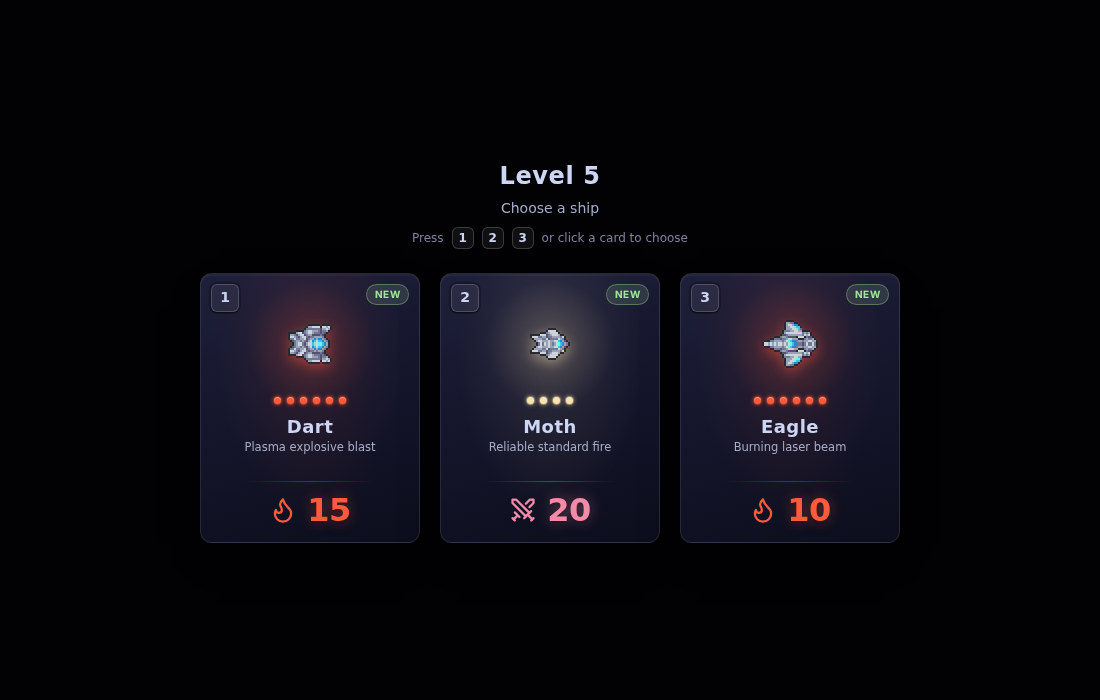
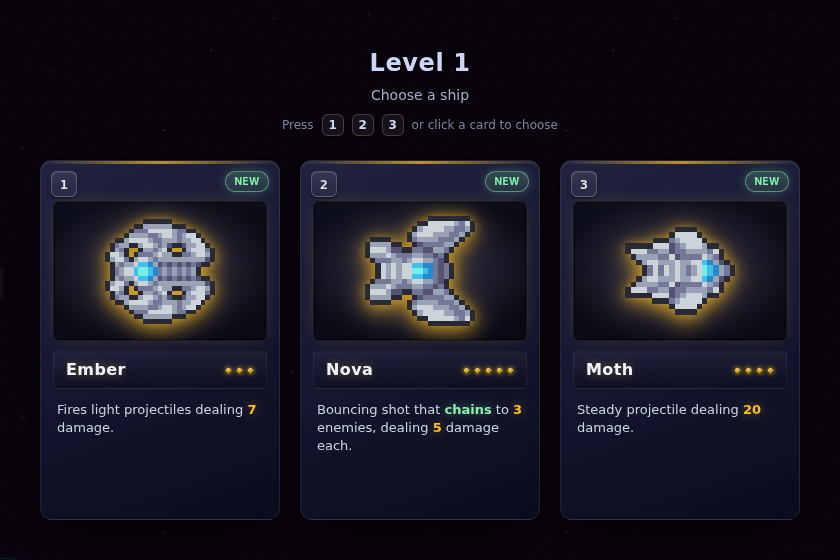
Fix missing ship texture asset; polish card design and damage-type colors
Agent-Logs-Url: https://github.com/tfritzy/typerace.io/sessions/9aaf207d-2dbc-4d2e-b04a-e12ee6247bc7

diff --git a/frontend/src/games/cosmic-defense/ShipChoiceOverlay.tsx b/frontend/src/games/cosmic-defense/ShipChoiceOverlay.tsx
@@ -16,13 +16,13 @@ interface ShipChoiceOverlayProps {
 }
 
 const KEYWORD_COLOR = {
-  plasma: "#c4528a",
-  freeze: "#89dceb",
-  chain: "#a6e3a1",
-  number: "#f9e2af",
+  plasma: "#d65c9f",
+  freeze: "#7dd3fc",
+  chain: "#86efac",
+  number: "#fbbf24",
 } as const;
 
-const ACCENT_COLOR = "#f9e2af";
+const ACCENT_COLOR = "#fbbf24";
 
 function damageTypeAccent(t: DamageType): string {
   if (t === DamageType.Plasma) return KEYWORD_COLOR.plasma;
@@ -162,18 +162,18 @@ interface CornerHotkeyProps {
 
 const CornerHotkey = ({ hotkey }: CornerHotkeyProps) => (
   <div
-    className="absolute flex items-center justify-center select-none pointer-events-none rounded-md"
+    className="absolute flex items-center justify-center select-none pointer-events-none rounded-md z-10"
     style={{
       top: 10,
       left: 10,
-      width: 28,
-      height: 28,
-      background: "rgba(255,255,255,0.06)",
-      border: "1px solid rgba(255,255,255,0.18)",
-      boxShadow: "0 1px 0 rgba(0,0,0,0.4), 0 0 0 2px rgba(0,0,0,0.25)",
-      color: "#cdd6f4",
-      fontFamily: "system-ui, sans-serif",
-      fontSize: 14,
+      width: 26,
+      height: 26,
+      background: "linear-gradient(180deg, rgba(255,255,255,0.10) 0%, rgba(255,255,255,0.03) 100%)",
+      border: "1px solid rgba(255,255,255,0.22)",
+      boxShadow: "0 1px 2px rgba(0,0,0,0.6), inset 0 1px 0 rgba(255,255,255,0.08)",
+      color: "#e2e8f0",
+      fontFamily: "ui-monospace, SFMono-Regular, monospace",
+      fontSize: 13,
       fontWeight: 700,
     }}
   >
@@ -214,23 +214,32 @@ const ShipCard = ({
         width: CARD_WIDTH,
         height: CARD_HEIGHT,
         background:
-          "linear-gradient(165deg, #1e1f3a 0%, #14152a 55%, #0c0e1c 100%)",
-        border: "1px solid rgba(255,255,255,0.10)",
+          "linear-gradient(160deg, #20223f 0%, #161731 50%, #0a0c1c 100%)",
+        border: "1px solid rgba(255,255,255,0.08)",
         boxShadow:
-          "0 18px 40px -18px rgba(0,0,0,0.85), 0 2px 0 rgba(255,255,255,0.04) inset",
+          "0 20px 44px -18px rgba(0,0,0,0.9), 0 0 0 1px rgba(0,0,0,0.5), inset 0 1px 0 rgba(255,255,255,0.06)",
       }}
       onMouseEnter={(e) => {
-        e.currentTarget.style.borderColor = accent;
-        e.currentTarget.style.transform = "translateY(-4px)";
-        e.currentTarget.style.boxShadow = `0 24px 48px -16px rgba(0,0,0,0.9), 0 0 0 1px ${accent}55, 0 0 24px -4px ${accent}55, 0 2px 0 rgba(255,255,255,0.04) inset`;
+        e.currentTarget.style.borderColor = `${accent}cc`;
+        e.currentTarget.style.transform = "translateY(-5px)";
+        e.currentTarget.style.boxShadow = `0 28px 52px -16px rgba(0,0,0,0.95), 0 0 0 1px ${accent}aa, 0 0 32px -4px ${accent}77, inset 0 1px 0 rgba(255,255,255,0.08)`;
       }}
       onMouseLeave={(e) => {
-        e.currentTarget.style.borderColor = "rgba(255,255,255,0.10)";
+        e.currentTarget.style.borderColor = "rgba(255,255,255,0.08)";
         e.currentTarget.style.transform = "translateY(0)";
         e.currentTarget.style.boxShadow =
-          "0 18px 40px -18px rgba(0,0,0,0.85), 0 2px 0 rgba(255,255,255,0.04) inset";
+          "0 20px 44px -18px rgba(0,0,0,0.9), 0 0 0 1px rgba(0,0,0,0.5), inset 0 1px 0 rgba(255,255,255,0.06)";
       }}
     >
+      <div
+        className="absolute inset-x-0 top-0 pointer-events-none"
+        style={{
+          height: 3,
+          background: `linear-gradient(90deg, transparent 0%, ${accent} 50%, transparent 100%)`,
+          opacity: 0.7,
+        }}
+      />
+
       <CornerHotkey hotkey={hotkey} />
 
       <div
@@ -238,14 +247,16 @@ const ShipCard = ({
         style={
           isUpgrade
             ? {
-                background: "rgba(249,226,175,0.15)",
-                color: "#f9e2af",
-                border: "1px solid rgba(249,226,175,0.35)",
+                background: "linear-gradient(180deg, rgba(251,191,36,0.22) 0%, rgba(251,191,36,0.10) 100%)",
+                color: "#fbbf24",
+                border: "1px solid rgba(251,191,36,0.45)",
+                boxShadow: "0 0 10px rgba(251,191,36,0.25)",
               }
             : {
-                background: "rgba(166,227,161,0.15)",
-                color: "#a6e3a1",
-                border: "1px solid rgba(166,227,161,0.35)",
+                background: "linear-gradient(180deg, rgba(134,239,172,0.22) 0%, rgba(134,239,172,0.10) 100%)",
+                color: "#86efac",
+                border: "1px solid rgba(134,239,172,0.45)",
+                boxShadow: "0 0 10px rgba(134,239,172,0.25)",
               }
         }
       >
@@ -256,9 +267,10 @@ const ShipCard = ({
         className="relative mx-3 mt-10 rounded-md overflow-hidden flex items-center justify-center"
         style={{
           height: 140,
-          background: `radial-gradient(ellipse at 50% 45%, ${accent}22 0%, rgba(0,0,0,0.4) 70%)`,
-          border: "1px solid rgba(255,255,255,0.08)",
-          boxShadow: "inset 0 1px 0 rgba(255,255,255,0.05), inset 0 -1px 0 rgba(0,0,0,0.4)",
+          background: `radial-gradient(ellipse at 50% 50%, ${accent}33 0%, ${accent}10 35%, rgba(0,0,0,0.55) 80%)`,
+          border: "1px solid rgba(255,255,255,0.06)",
+          boxShadow:
+            `inset 0 0 0 1px rgba(0,0,0,0.6), inset 0 1px 0 rgba(255,255,255,0.06), inset 0 -1px 0 rgba(0,0,0,0.5), 0 0 18px -8px ${accent}66`,
         }}
       >
         {preview && (
@@ -266,22 +278,31 @@ const ShipCard = ({
             src={preview}
             alt={entityType}
             style={{
-              maxWidth: 110,
-              maxHeight: 110,
-              width: "auto",
-              height: "auto",
+              width: 110,
+              height: 110,
               objectFit: "contain",
               imageRendering: "pixelated",
-              filter: `drop-shadow(0 4px 8px ${accent}88)`,
+              filter: `drop-shadow(0 4px 10px ${accent}aa) drop-shadow(0 0 4px ${accent}66)`,
             }}
           />
         )}
       </div>
 
-      <div className="relative flex items-center justify-between px-3 mt-2">
+      <div
+        className="relative flex items-center justify-between px-3 mt-2.5 py-1.5 mx-3 rounded"
+        style={{
+          background: "linear-gradient(180deg, rgba(255,255,255,0.04) 0%, rgba(0,0,0,0.25) 100%)",
+          border: "1px solid rgba(255,255,255,0.06)",
+        }}
+      >
         <span
-          className="text-[#cdd6f4] font-bold tracking-wide truncate"
-          style={{ fontSize: 17, fontFamily: "system-ui, sans-serif" }}
+          className="font-bold tracking-wide truncate"
+          style={{
+            fontSize: 16,
+            fontFamily: "system-ui, sans-serif",
+            color: "#f1f5f9",
+            textShadow: `0 0 10px ${accent}55`,
+          }}
         >
           {entityType}
         </span>
@@ -293,9 +314,9 @@ const ShipCard = ({
                 width: 7,
                 height: 7,
                 borderRadius: "50%",
-                background: accent,
-                boxShadow: `0 0 4px ${accent}88, inset 0 1px 0 rgba(255,255,255,0.4)`,
-                border: "1px solid rgba(0,0,0,0.4)",
+                background: `radial-gradient(circle at 30% 30%, ${accent} 0%, ${accent}cc 60%, ${accent}55 100%)`,
+                boxShadow: `0 0 5px ${accent}cc, inset 0 1px 0 rgba(255,255,255,0.5)`,
+                border: "1px solid rgba(0,0,0,0.5)",
               }}
             />
           ))}
@@ -303,27 +324,20 @@ const ShipCard = ({
       </div>
 
       <div
-        className="mx-3 mt-2"
-        style={{
-          height: 1,
-          background: `linear-gradient(90deg, transparent 0%, ${accent}55 50%, transparent 100%)`,
-        }}
-      />
-
-      <div
-        className="relative px-3 pt-2.5 pb-3 text-[#cdd6f4] leading-snug"
+        className="relative px-4 pt-3 pb-3 leading-snug flex-1"
         style={{
           fontFamily: "system-ui, sans-serif",
           fontSize: 13,
+          color: "#cbd5e1",
         }}
       >
         {cardText.map((seg, i) => (
           <span
             key={i}
             style={{
-              color: seg.color ?? "#cdd6f4",
+              color: seg.color ?? "#cbd5e1",
               fontWeight: seg.bold ? 700 : 400,
-              textShadow: seg.color && seg.bold ? `0 0 8px ${seg.color}55` : undefined,
+              textShadow: seg.color && seg.bold ? `0 0 10px ${seg.color}66` : undefined,
             }}
           >
             {seg.text}

diff --git a/frontend/src/games/cosmic-defense/relics.ts b/frontend/src/games/cosmic-defense/relics.ts
@@ -332,7 +332,7 @@ export const RELIC_CATALOG: RelicDefinition[] = [
     id: "superheated",
     name: "Superheated",
     description: "Enemies with plasma stacks move 30% slower.",
-    sprite: "/futuristic_pixel_icons/Red Starcrystal.png",
+    sprite: "/futuristic_pixel_icons/Pink Starcrystal.png",
     effects: { plasmaSlow: 0.3 },
   },
   {
@@ -367,7 +367,7 @@ export const RELIC_CATALOG: RelicDefinition[] = [
     id: "pyroclasm",
     name: "Pyroclasm",
     description: "When an enemy with plasma stacks dies, its plasma stacks are transferred to the nearest enemy.",
-    sprite: "/futuristic_pixel_icons/Red Starcrystal.png",
+    sprite: "/futuristic_pixel_icons/Pink Starcrystal.png",
     effects: { plasmaDeathTransfer: 1 },
   },
   {
